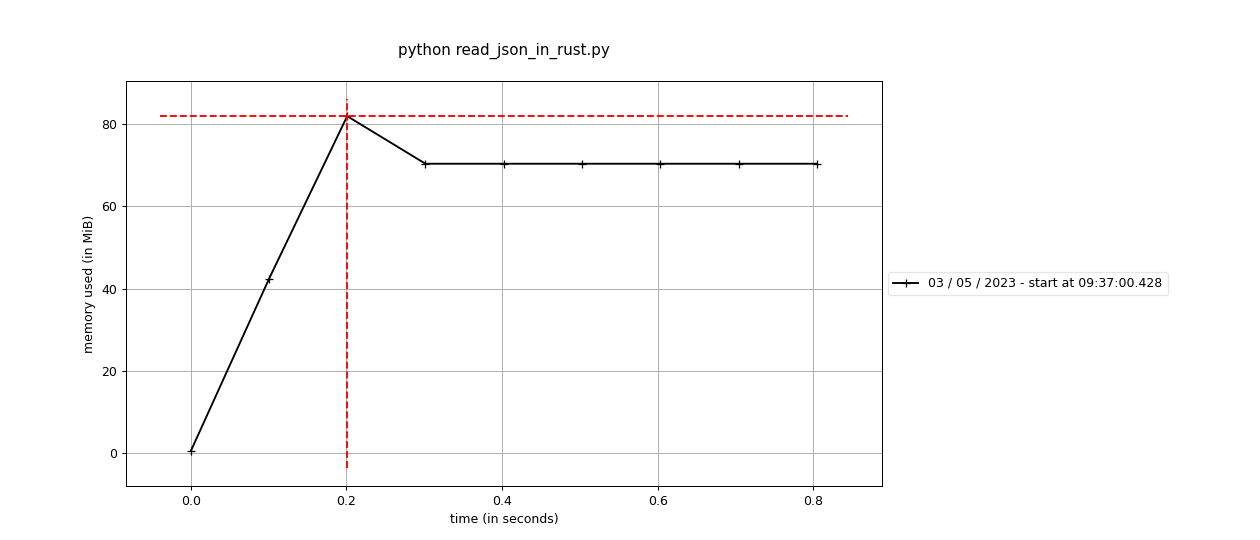
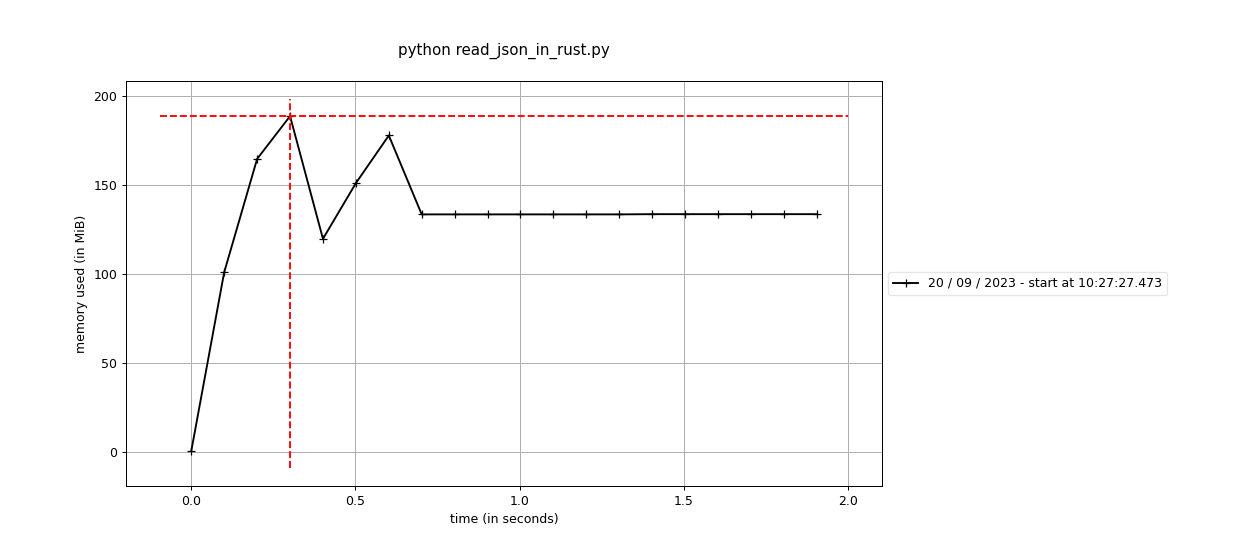
fix: add Makefile to download data

diff --git a/read-json-in-rust/read_json_in_rust.py b/read-json-in-rust/read_json_in_rust.py
@@ -9,15 +9,15 @@ def main():
     data_source = load_from_file("data/skbl.json")
 
     def doc_update(doc):
-        doc["_source"]["lexiconName"] = "skbl2"
-        doc["_source"]["lexiconOrder"] = 48
+        doc["lexiconName"] = "skbl2"
+        doc["lexiconOrder"] = 48
         return doc
 
     for doc in data_source:
         doc_update(doc)
-    dump_to_file(data_source, "data/skbl2_py.json")
+    dump_to_file(data_source, "data/skbl2_python.json")
 
-    end  =time.perf_counter()
+    end = time.perf_counter()
     print(f"Elapsed time: {end-start} s")
 
 

diff --git a/read-json-in-rust/src/main.rs b/read-json-in-rust/src/main.rs
@@ -1,5 +1,6 @@
 use std::fs::File;
 use std::io::BufWriter;
+
 use std::io::Read;
 use std::time::Instant;
 
@@ -11,8 +12,8 @@ fn main() {
     let mut data_source = load_from_file("data/skbl.json");
 
     fn doc_update(doc: &mut Value) {
-        doc["_source"]["lexiconName"] = "skbl2".into();
-        doc["_source"]["lexiconOrder"] = 48.into();
+        doc["lexiconName"] = "skbl2".into();
+        doc["lexiconOrder"] = 48.into();
     }
 
     for doc in &mut data_source {

diff --git a/read-json-in-rust/README.md b/read-json-in-rust/README.md
@@ -1,10 +1,19 @@
 # Read JSON in Rust
 
+> [!NOTE]
+> Updated to use published data instead.
+
 [Rust](https://www.rust-lang.org/) is a system-level programming language that is compiled ahead of time (like Java, Go, C, C++ ,...).
 
 In this tutorial we are going to read JSON, update the data and write to a new file.
 
 You can follow along at your own computer or at [replit.com](https://replit.com)
+
+## Download data
+
+To run the examples, you need some data to work on, the [Makefile](./Makefile) includes recipes to download skbl.json from https://spraakbanken.gu.se and extract the array `entries` using [jq](https://jqlang.github.io/jq/), `make download-data`.
+
+The dataset includes 2059 entries and weights 39 Mb in compacted form.
 
 ## Python example
 
@@ -22,16 +31,16 @@ def main():
     data_source = load_from_file("data/skbl.json")
 
     def doc_update(doc):
-        doc["_source"]["lexiconName"] = "skbl2"
-        doc["_source"]["lexiconOrder"] = 48
+        doc["lexiconName"] = "skbl2"
+        doc["lexiconOrder"] = 48
         return doc
 
     for doc in data_source:
         doc_update(doc)
 
-    dump_to_file(data_source, "data/skbl2_py.json")
+    dump_to_file(data_source, "data/skbl2_python.json")
 
-    elapsed  = time.perf_counter() - start
+    elapsed = time.perf_counter() - start
     print(f"Elapsed time: {elapsed} s")
 
 
@@ -51,7 +60,7 @@ if __name__ == "__main__":
 When running it we get this:
 ```bash
 > python read_json_in_rust.py
-Elapsed time: 0.7634601149984519 s
+Elapsed time: 1.792407828004798 s
 ```
 Memory usage:
 ![Memory usage of python program](./python_memory_usage.png)
@@ -97,8 +106,7 @@ use std::time::Instant;
 fn main() {
     let start = Instant::now();
 
-    let elapsed = Instant::now() - start;
-    println!("Elapsed time {elapsed:?}");
+    println!("Elapsed time {:?}", start.elapsed());
 }
 ```
 
@@ -245,10 +253,10 @@ warning: unused variable: `data_source`
 warning: `read-json-in-rust` (bin "read-json-in-rust") generated 2 warnings (run `cargo fix --bin "read-json-in-rust"` to apply 1 suggestion)
     Finished dev [unoptimized + debuginfo] target(s) in 0.45s
      Running `target/debug/read-json-in-rust`
-Elapsed time 15.914714056s
+Elapsed time 37.309493395s
 ```
 
-Ouch, more than 15 seconds, something must be wrong.
+Ouch, more than 37 seconds, something must be wrong.
 
 Yes, by looking in [the `serde_json` docs for `from_reader`](https://docs.rs/serde_json/latest/serde_json/fn.from_reader.html) we can read:
 > When reading from a source against which short reads are not efficient, such as a File, you will want to apply your own buffering because serde_json will not buffer the input. See std::io::BufReader.
@@ -264,7 +272,7 @@ use serde_json::Value;
 fn load_from_file(path: &str) -> Value {
     let file = File::open(path).expect("a valid path");
     let reader = BufReader::new(file); // (2)
-    serde_json::from_reader(file).expect("successfully parsed JSON")
+    serde_json::from_reader(reader).expect("successfully parsed JSON")
 }
 ```
 
@@ -286,10 +294,10 @@ warning: unused variable: `data_source`
 warning: `read-json-in-rust` (bin "read-json-in-rust") generated 2 warnings (run `cargo fix --bin "read-json-in-rust"` to apply 1 suggestion)
     Finished dev [unoptimized + debuginfo] target(s) in 0.69s
      Running `target/debug/read-json-in-rust`
-Elapsed time 1.749004778s
+Elapsed time 3.713371222s
 ```
 
-Ok, some improvment, from 15.9s to 1.75s, but still twice as slow as `Python`. But let's not bother about that yet.
+Ok, some improvment, from 37.3s to 3.71s, but still twice as slow as `Python`. But let's not bother about that yet.
 
 ## Dump JSON
 
@@ -318,21 +326,22 @@ After a successful `cargo run` we can look at our files:
 
 ```bash
 > ls -l data
-.rw-r--r-- 17M kristoffer  2 maj 14:36  skbl.json
-.rw-r--r-- 16M kristoffer  2 maj 15:14  skbl2_rust.json
+.rw-r--r-- 39M kristoffer  2 maj 14:36  skbl.json
+.rw-r--r-- 42M kristoffer 20 sep 10:27  skbl2_python.json
+.rw-r--r-- 39M kristoffer  2 maj 15:14  skbl2_rust.json
 ```
 
-Ok, we created the file, but it is smaller, why is that?
+Ok, we created the file `skbl2_rust.json`, but it is smaller than `skbl2_python.json`, why is that?
 
-Inspections gives that `skbl.json` is written with ascii and `skbl2_rust.json` uses utf-8.
+Inspections gives that `skbl2_python.json` is written with ascii and `skbl2_rust.json` uses utf-8.
 
 ## Update the data
 
 And of course we want to update the data also. How did we do it in python?
 ```python
     def doc_update(doc):
-        doc["_source"]["lexiconName"] = "skbl2"
-        doc["_source"]["lexiconOrder"] = 48
+        doc["lexiconName"] = "skbl2"
+        doc["lexiconOrder"] = 48
         return doc
 
     for doc in data_source:
@@ -344,8 +353,8 @@ Seems simple, we update the documents in `data_source` directly, let's try that 
 
 ```rust
     fn doc_update(doc: Value) {
-        doc["_source"]["lexiconName"] = "skbl2";
-        doc["_source"]["lexiconOrder"] = 48;
+        doc["lexiconName"] = "skbl2";
+        doc["lexiconOrder"] = 48;
     }
 
     for doc in data_source {
@@ -370,20 +379,20 @@ error[E0277]: `Value` is not an iterator
 error[E0308]: mismatched types
   --> src/main.rs:14:41
    |
-14 |         doc["_source"]["lexiconName"] = "skbl2";
+14 |         doc["lexiconName"] = "skbl2";
    |         -----------------------------   ^^^^^^^ expected `Value`, found `&str`
    |         |
    |         expected due to the type of this binding
    |
 help: call `Into::into` on this expression to convert `&'static str` into `Value`
    |
-14 |         doc["_source"]["lexiconName"] = "skbl2".into();
+14 |         doc["lexiconName"] = "skbl2".into();
    |                                                +++++++
 
 error[E0308]: mismatched types
   --> src/main.rs:15:42
    |
-15 |         doc["_source"]["lexiconOrder"] = 48;
+15 |         doc["lexiconOrder"] = 48;
    |         ------------------------------   ^^ expected `Value`, found integer
    |         |
    |         expected due to the type of this binding
@@ -403,8 +412,8 @@ We begin with the errors `error[E0308]: mismatched types`, the compiler suggests
 So let's follow the help.
 ```rust
     fn doc_update(doc: Value) {
-        doc["_source"]["lexiconName"] = "skbl2".into();
-        doc["_source"]["lexiconOrder"] = 48.into();
+        doc["lexiconName"] = "skbl2".into();
+        doc["lexiconOrder"] = 48.into();
     }
 
     for doc in data_source {
@@ -452,8 +461,8 @@ Rust's `enum`s are quite powerful that let's us associate different types with t
 So adding that gives us:
 ```rust
     fn doc_update(doc: Value) {
-        doc["_source"]["lexiconName"] = "skbl2".into();
-        doc["_source"]["lexiconOrder"] = 48.into();
+        doc["lexiconName"] = "skbl2".into();
+        doc["lexiconOrder"] = 48.into();
     }
 
     for doc in data_source.as_array().expect("an array") {
@@ -492,8 +501,8 @@ Here the suggestion doesn't work for us, we want a borrow to update the document
 So let's try to change `doc_update` to take a borrow.
 ```rust
     fn doc_update(doc: &Value) {
-        doc["_source"]["lexiconName"] = "skbl2".into();
-        doc["_source"]["lexiconOrder"] = 48.into();
+        doc["lexiconName"] = "skbl2".into();
+        doc["lexiconOrder"] = 48.into();
     }
 
     for doc in data_source.as_array().expect("an array") {
@@ -508,7 +517,7 @@ And running it:
 error[E0596]: cannot borrow `*doc` as mutable, as it is behind a `&` reference
   --> src/main.rs:14:9
    |
-14 |         doc["_source"]["lexiconName"] = "skbl2".into();
+14 |         doc["lexiconName"] = "skbl2".into();
    |         ^^^ `doc` is a `&` reference, so the data it refers to cannot be borrowed as mutable
    |
 help: consider changing this to be a mutable reference
@@ -519,7 +528,7 @@ help: consider changing this to be a mutable reference
 error[E0596]: cannot borrow `*doc` as mutable, as it is behind a `&` reference
   --> src/main.rs:15:9
    |
-15 |         doc["_source"]["lexiconOrder"] = 48.into();
+15 |         doc["lexiconOrder"] = 48.into();
    |         ^^^ `doc` is a `&` reference, so the data it refers to cannot be borrowed as mutable
    |
 help: consider changing this to be a mutable reference
@@ -539,8 +548,8 @@ So now we aren't allowed to change doc through a `&Value` reference, but we need
 So if `doc_update` takes a mutable reference
 ```rust
     fn doc_update(doc: &mut Value) {
-        doc["_source"]["lexiconName"] = "skbl2".into();
-        doc["_source"]["lexiconOrder"] = 48.into();
+        doc["lexiconName"] = "skbl2".into();
+        doc["lexiconOrder"] = 48.into();
     }
 
     for doc in data_source.as_array().expect("an array") {
@@ -579,8 +588,8 @@ the `doc` in the `for`-loop is not mutable. So we need the `data_source` as an m
 Let's use that.
 ```rust
     fn doc_update(doc: &mut Value) {
-        doc["_source"]["lexiconName"] = "skbl2".into();
-        doc["_source"]["lexiconOrder"] = 48.into();
+        doc["lexiconName"] = "skbl2".into();
+        doc["lexiconOrder"] = 48.into();
     }
 
     for doc in data_source.as_array_mut().expect("an array") {
@@ -618,10 +627,10 @@ And, bang, it works!
    Compiling read-json-in-rust v0.1.0 (.../dev-tutorials/read-json-in-rust)
     Finished dev [unoptimized + debuginfo] target(s) in 0.31s
      Running `target/debug/read-json-in-rust`
-Elapsed time 2.097109881s
+Elapsed time 4.908370832s
 ```
 
-But the time it took, 2.09 s, what can be done about that?
+But the time it took, almost 5 seconds, what can be done about that?
 
 ## Optimizations
 Let's try with some optimizations, we turn them on by passing `--release` to `cargo run`.
@@ -635,7 +644,7 @@ Let's try with some optimizations, we turn them on by passing `--release` to `ca
    Compiling read-json-in-rust v0.1.0 (.../dev-tutorials/read-json-in-rust)
     Finished release [optimized] target(s) in 4.93s
      Running `target/release/read-json-in-rust`
-Elapsed time 332.653414ms
+Elapsed time 687.616607ms
 ```
 
 Ok, that was better!
@@ -648,13 +657,15 @@ The measure memory usage with [memory-profiler](https://pypi.org/project/memory-
 > mprof run target/release/read-json-in-rust
 mprof: Sampling memory every 0.1s
 running new process
-Elapsed time 298.095577ms
+Elapsed time 730.408381ms
 ```
 Memory usage for the rust program:
 ![Memory usage of rust program](./rust_release_memory_usage.png)
 
-Memory usage for the python program:
+And as reference, the memory usage for the python program:
 ![Memory usage of python program](./python_memory_usage.png)
+
+Rust use slightly more memory but their memory usage is in the same magnitude.
 
 ### Read file to a string
 Sometimes the loading can be improved by reading the whole file to a `String`. Let's try that:
@@ -718,10 +729,15 @@ So let bring it in scope by adding `use std::io::Read`.
    Compiling read-json-in-rust v0.1.0 (.../dev-tutorials/read-json-in-rust)
     Finished release [optimized] target(s) in 0.56s
      Running `target/release/read-json-in-rust`
-Elapsed time 188.196532ms
+Elapsed time 425.541856ms
 ```
 
 Yes, that improved the running time.
+
+How is the memory usage changed?
+
+![Memory usage of rust program read all content to String](./rust_release_string_memory_usage.png)
+
 
 ### Deserialize to Vec directly
 
@@ -751,10 +767,14 @@ Does it matter?
 > cargo run --release
     Finished release [optimized] target(s) in 0.01s
      Running `target/release/read-json-in-rust`
-Elapsed time 188.792043ms
+Elapsed time 408.153712ms
 ```
 
 No, not for the speed. So you can choose what fits your program best.
+
+## Conclusion
+
+We have ported a simple Python program to Rust and seen a speedup by 2.5 to 4.4 times.
 
 ## Next steps
 
